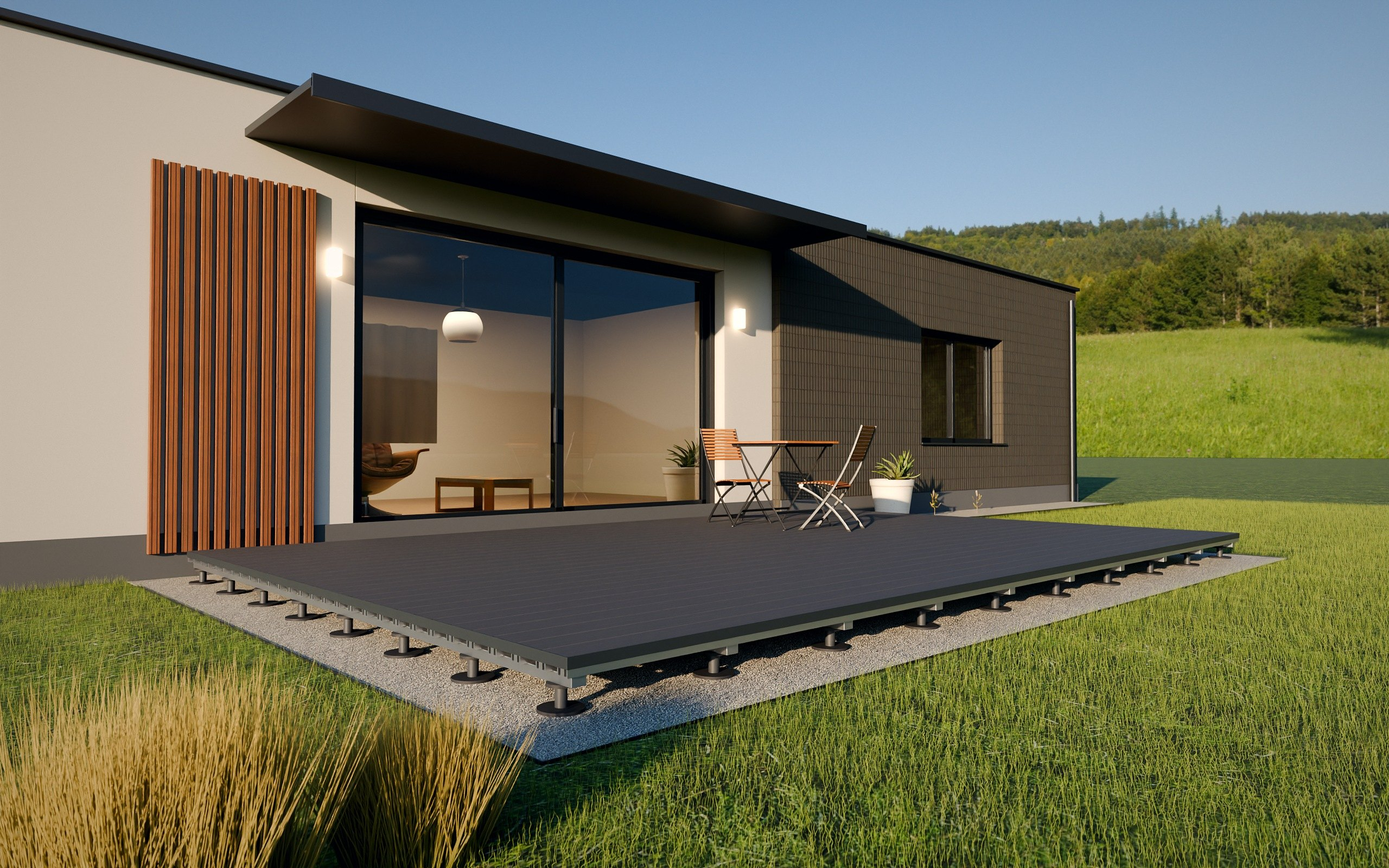
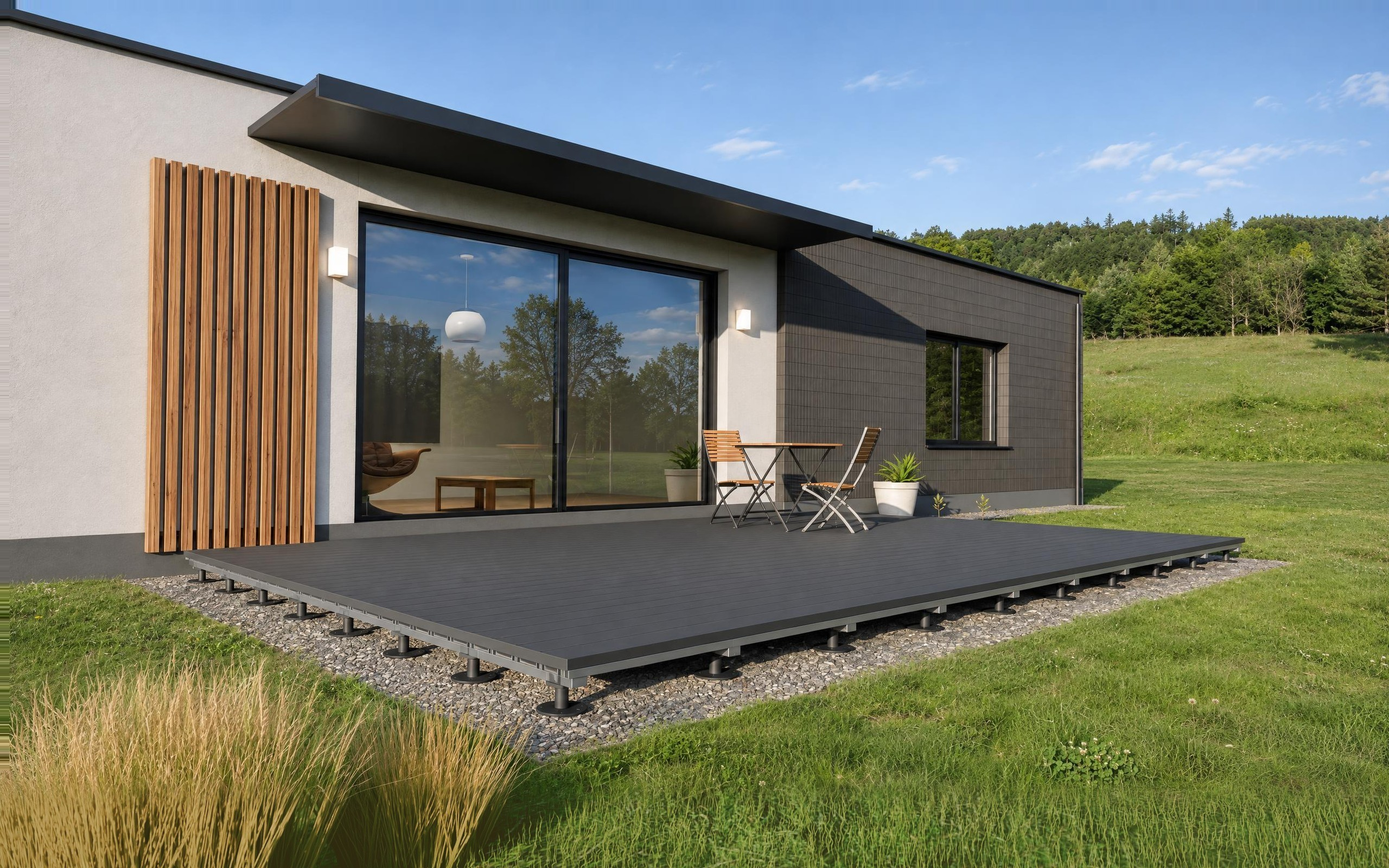
Hero-Startbild: Blender-Render mit Higgsfield-Realismus (Probe)
Claude-Session: https://claude.ai/code/session_014Z1VBeyTbHZt6iQxQQMmjf

diff --git a/index.html b/index.html
@@ -1182,7 +1182,7 @@ function loadTex(url, srgb = true) {
 }
 // hero_wa_d → Kamera „hero“; xr_1 → „xr“; cfg_sh_n → „cfg“
 const camOf = key => key.split('_')[0];
-const srcOf = key => `img/r/${key}.jpg`;
+const srcOf = key => `img/r/${key}.jpg${key === 'hero_wa_d' ? '?v=2' : ''}`;
 const depthOf = key => `img/r/z_${/^xr_/.test(key) ? key : camOf(key)}.jpg`;
 const shotReady = {}, shotData = {};
 function loadShot(key) {
@@ -1627,7 +1627,7 @@ const stillAt = k => [heroKey(), 'xr_0', 'xr_1', 'xr_2', heroKey()][k];
 function applySeq() {
   const s = clamp(heroState.s, 0, 4);
   const f = s <= 1 ? s * 31 : s <= 2 ? 32 + (s - 1) * 23 : s <= 3 ? 56 + (s - 2) * 19 : 75 - (s - 3) * 75;
-  const k = Math.round(s), dist = Math.abs(s - k), w = clamp(1 - dist / .06);
+  const k = Math.round(s), dist = Math.abs(s - k), w = clamp(1 - dist / (k === 0 || k === 4 ? .24 : .06));
   if (w >= 1 && shotData[stillAt(k)]) { hero.frameMix(null, null, 0, stillAt(k), 1); return; }
   const i0 = Math.min(NFR - 1, Math.floor(f)), i1 = Math.min(NFR - 1, i0 + 1), ld = i => frames[i] && frames[i].complete && frames[i].naturalWidth ? frames[i] : null;
   let a = ld(i0), b = ld(i1); if (!a) { frameImg(i0); frameImg(i1); a = nearestFrame(i0); b = null; }
